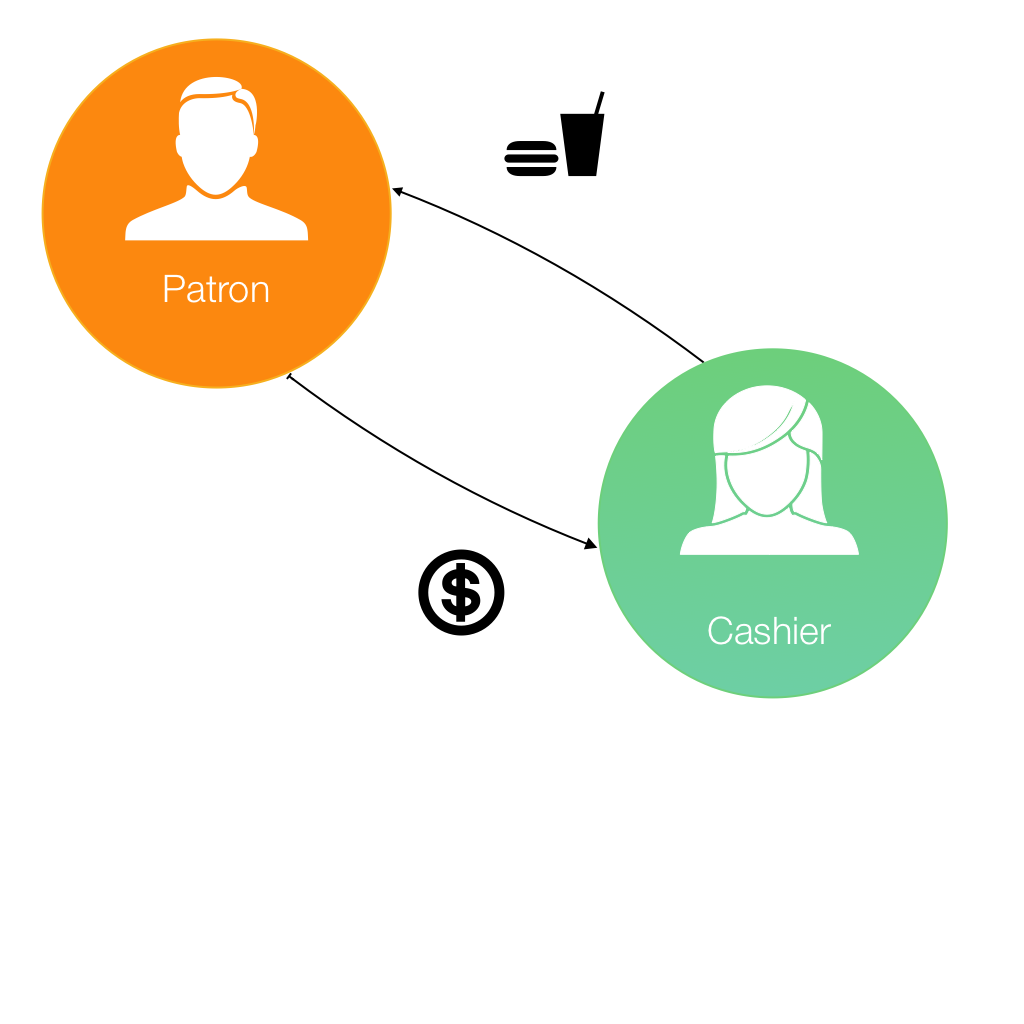
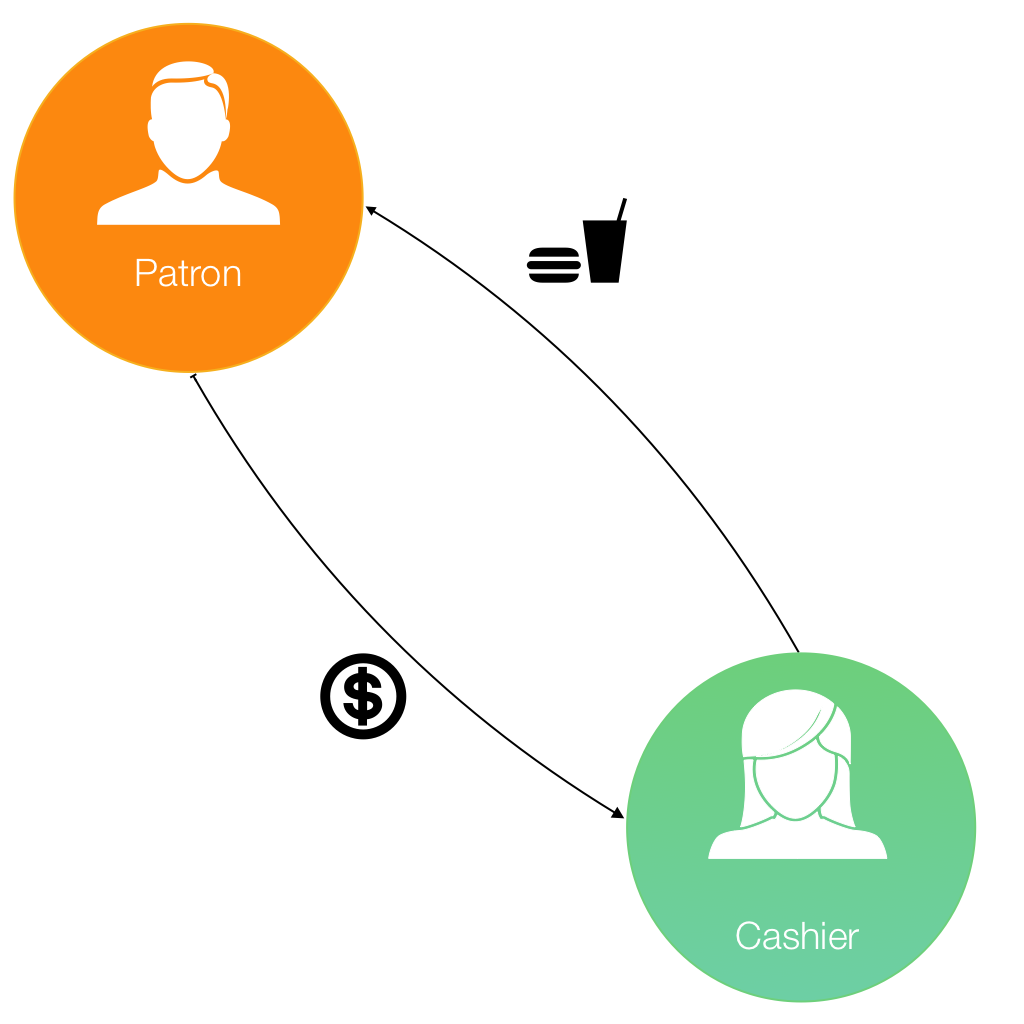
CSS for the flowchart object.

diff --git a/app/assets/stylesheets/application.scss b/app/assets/stylesheets/application.scss
@@ -7,4 +7,5 @@
 @import "demo";
 @import "instructions";
 @import "circle_buttons";
+@import "flowchart";
 

diff --git a/app/assets/stylesheets/flowchart.scss b/app/assets/stylesheets/flowchart.scss
@@ -1,0 +1,3 @@
+.flowchart-img {
+  height: 300px;
+}
